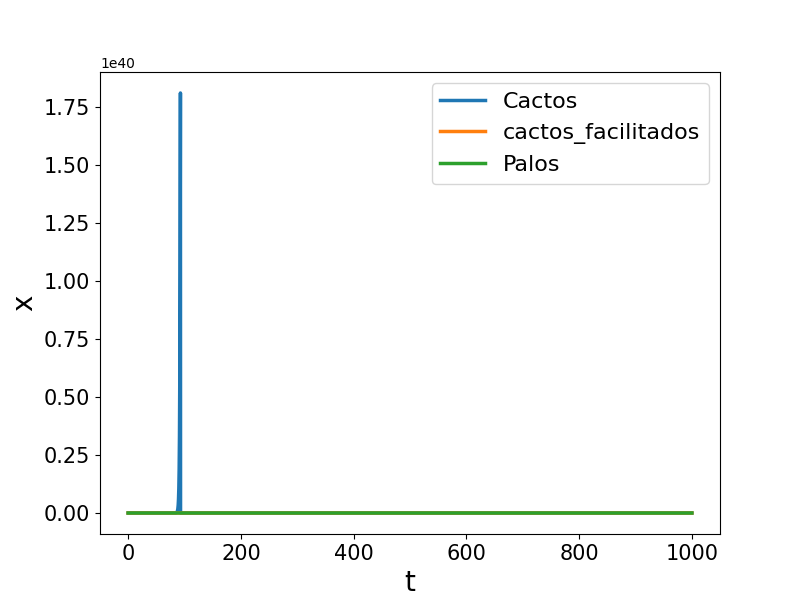
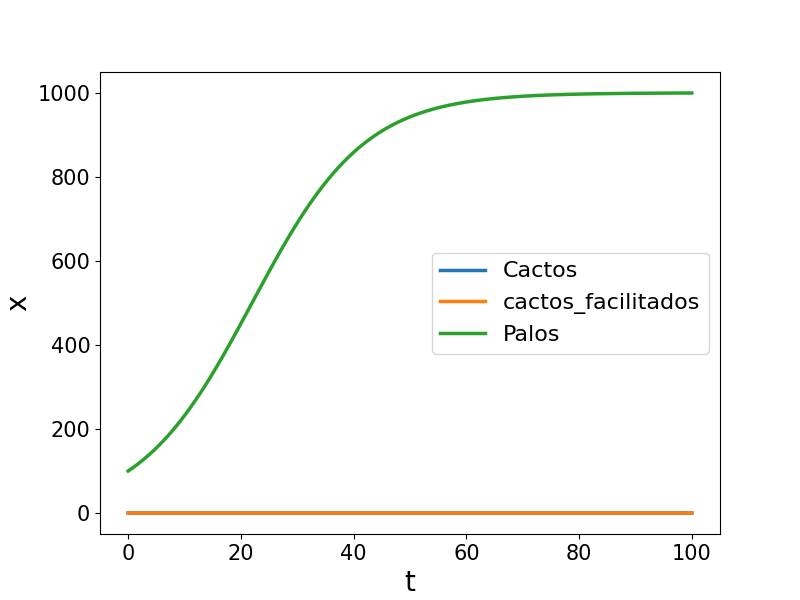
predacao desligada

diff --git a/modelo_cacto_palos_full.py b/modelo_cacto_palos_full.py
@@ -4,29 +4,32 @@ from scipy.integrate import odeint
 
 # parâmetros
 r1 = 1
-r2 = 3
+r2 = 0.1
 k1 = 10
-k2 = 20
-x_inicial_1 = 1
+k2 = 1000
+x_inicial_1 = 0
 x_inicial_2 = 0
 x_inicial_3 = 100
-taxa_transicao = 1
+taxa_transicao = 0
 cacto_death = 0.1
 taxa_predacao = 0
 taxa_facilitacao = 1
 
 # passos de tempo
-t = arange(0, 1000., 0.01)
+t = arange(0, 100., 0.01)
 
 def modele_facilitacao_amensalismo(
   x, t, r1, k1, r2, k2, taxa_transicao,
   cacto_death, taxa_predacao, taxa_facilitacao):
   
   return array([
-   x[0] * (r1 + taxa_facilitacao * x[2]) - taxa_transicao * x[0],
-   taxa_transicao * x[0] - cacto_death * x[1] - k1 * x[1] ** 2,
-   r2 * x[2] * (1 - (x[2] - taxa_predacao * x[1] / k2) )
+   x[1] * (r1 + taxa_facilitacao * x[2]) - taxa_transicao * x[0],
+   taxa_transicao * x[0] - cacto_death * x[1] - k1 * (x[1] ** 2),
+   r2 * x[2] * (1 - x[2] / k2) - taxa_predacao
   ])
+
+#r2 * x[1] * ( 1 - x[1] / k2)
+
 
 modelo_integrado = odeint(modele_facilitacao_amensalismo, [x_inicial_1, x_inicial_2, x_inicial_3], t, (r1, k1, r2, k2, taxa_transicao, cacto_death, taxa_predacao, taxa_facilitacao))
 
